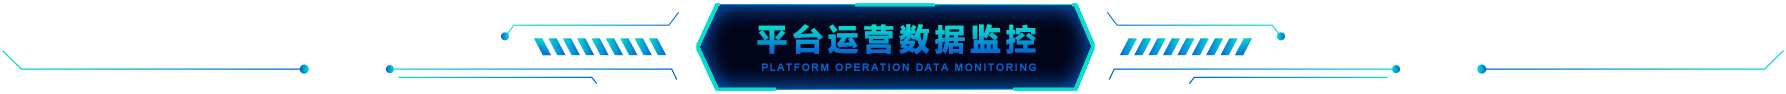
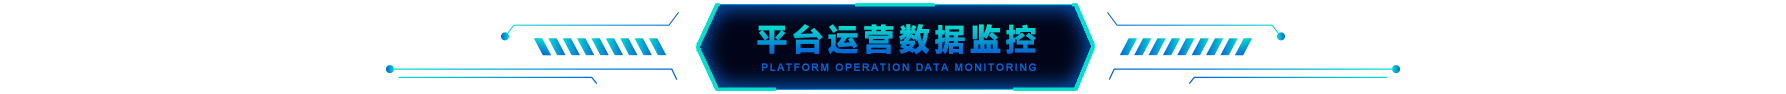
修改两个地方，兼容移动

Changed region(s): [[0.8007, 0.5532, 1.0, 0.7872], [0.0, 0.7021, 0.1848, 0.7872]]

diff --git a/views/css/reset.css b/views/css/reset.css
@@ -330,21 +330,44 @@ padding: 10px 0;
 }
 .console_top_time{
     position: absolute;
-    left:10px;
-    top:25px;
-    height: 46px;
-    line-height: 46px;
+    left: 0;
+    top: 40px;
+    padding-left: 20px;
+    height: 56px;
+    line-height: 56px;
     color: #06ded0;
     font-size: 16px;
+    background: url(../images/cs_topbg_03.png) no-repeat right center;
+    width: 200px;
 }
+
+
 .console_top_full{
+    /* position: absolute;
+    right:0;
+    top:50px;
+    height: 40px;
+    width: 40px;
+    background: url(../images/cs_topfull.png) no-repeat center; */
     position: absolute;
-    right:30px;
-    top:30px;
+    right: 0;
+    top: 40px;
+    padding-right: 20px;
+    height: 56px;
+    color: #06ded0;
+    font-size: 16px;
+    background: url(../images/cs_topbg_05.png) no-repeat left center;
+    width: 200px;
+}
+.console_top_full span{
+    float: right;
+    display: block;
     height: 40px;
     width: 40px;
     background: url(../images/cs_topfull.png) no-repeat center;
 }
+
+
 
 .top_line{
     position: absolute;

diff --git a/views/console/console.html b/views/console/console.html
@@ -47,7 +47,7 @@
             <div class="grid-demo grid-demo-bg1">
                 <div class="console_top">
                     <div id="console_top_time" class="console_top_time"></div><!---时间--->
-                    <div id="console_top_full" class="console_top_full"></div><!---全屏--->
+                    <div id="console_top_full" class="console_top_full"><span></span></div><!---全屏--->
                 </div>
             </div>
         </div>

diff --git a/views/css/index.css b/views/css/index.css
@@ -11,7 +11,7 @@ a{
 html{
     width: 100%;
     height: 100%;
-    overflow-x:hidden; 
+    /* overflow-x:hidden;  */
     overflow-y:auto;
 }
 body{
